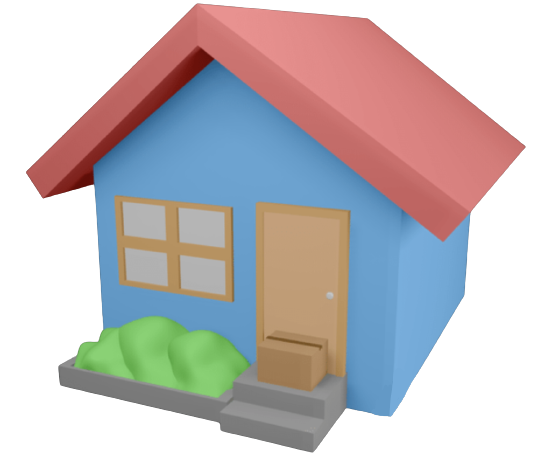
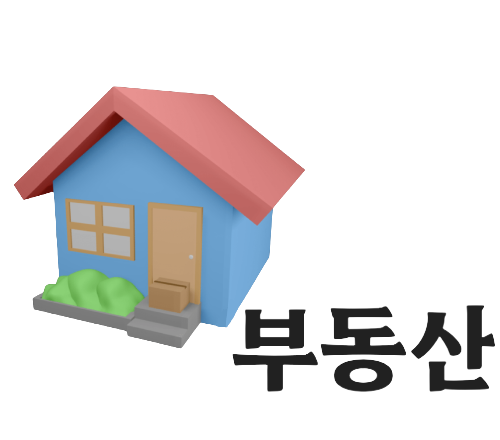
MOD: HomeInfo & image

diff --git a/src/components/Home/HomeInfo.tsx b/src/components/Home/HomeInfo.tsx
@@ -84,7 +84,7 @@ const Line = styled.div`
   justify-content: space-between;
 `;
 
-const Items = styled.div<{ url: string }>`
+const Items = styled.div<{ url: string; text: string }>`
   cursor: pointer;
   width: 24%;
   height: 65%;
@@ -234,22 +234,25 @@ export default function HomeInfo() {
           url={"../../images/background_03.png"}
         >
           <TextLine>
-            <h1>짜잔</h1>
-            <h1>짜잔</h1>
-            <h1>짜잔</h1>
+            <h1><b>BSBZ만의 핵심 서비스</b></h1>
+            <h2>인생 첫 조각투자를 클릭 한번으로 시작해보세요!</h2>
+            {/* <h1>짜잔</h1> */}
           </TextLine>
           <ItemBox>
             <Items
               onClick={() => reset("/product/realestate")}
               url={"../../images/home-estate-icon.png"}
+              text="부동산"
             />
             <Items
               onClick={() => reset("/product/luxuries")}
               url={"../../images/home-luxury-icon.png"}
+              text="부동산"
             />
             <Items
               onClick={() => reset("/product/musiccopyright")}
               url={"../../images/home-music-icon.png"}
+              text="부동산"
             />
           </ItemBox>
         </Box>
